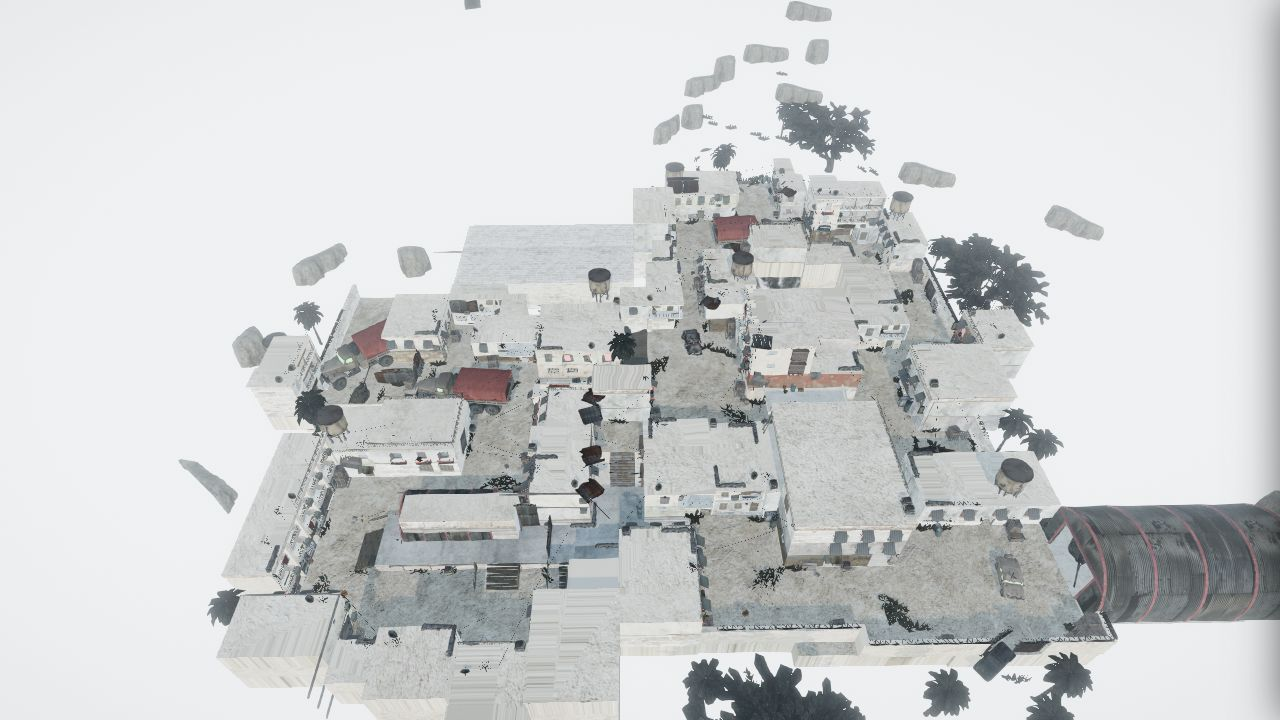
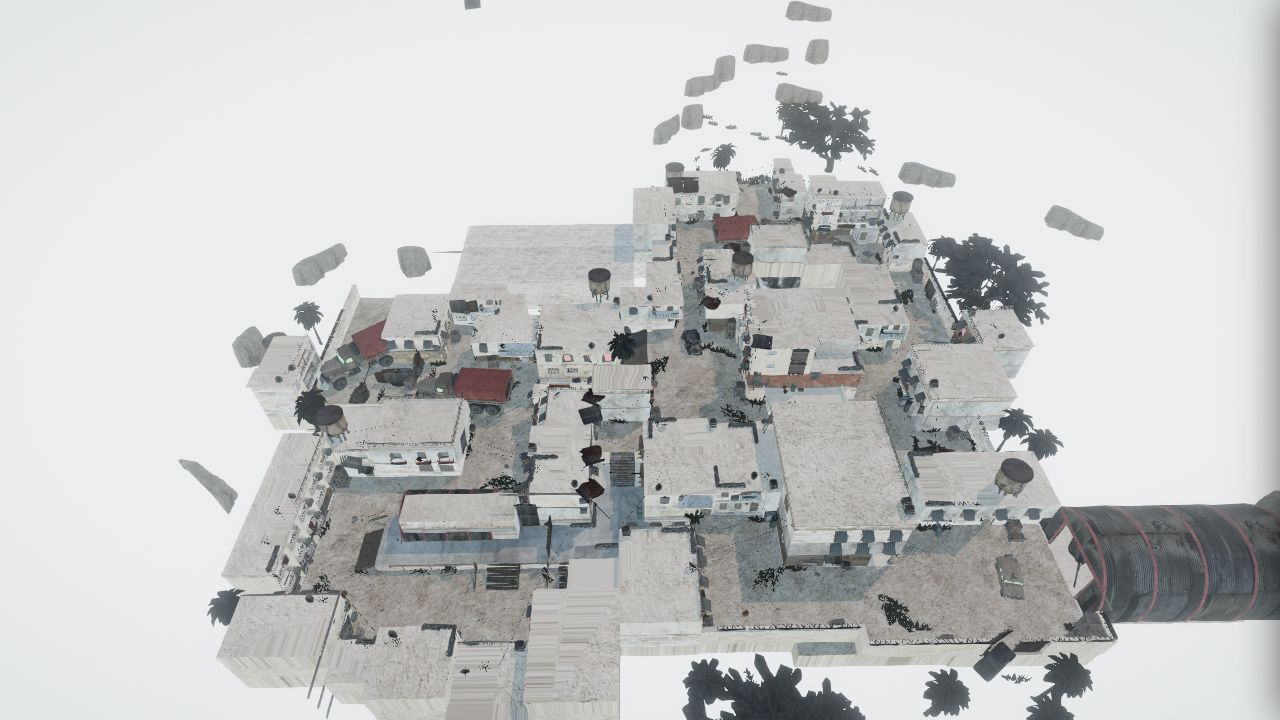
[M3] Maps: Desert Camp lit by SF2's own dominant light (55° from 322°, 251/219/199), warm haze, fill turned down; sf2_props reads Color / LinearColor and keeps what it read before an unreadable tag (v65y) (local)

diff --git a/index.html b/index.html
@@ -17017,7 +17017,15 @@ MAPS.push(sf2TriMap({
   killY: -20,
   shot: { pos: [10, 60, -70], target: [10, 0, -12] },
   thumb: { pos: [10, 70, -80], target: [10, 0, -12], fov: 55 },
-  objectives: { dom: [[-4, 0, 12], [3, 0, -7], [9, 0, -26]], relic: [3, 0, -7], domRadius: 5 }
+  objectives: { dom: [[-4, 0, 12], [3, 0, -7], [9, 0, -26]], relic: [3, 0, -7], domRadius: 5 },
+  // v65y SF2's own light: DominantDirectionalLight_0 (Pitch −10016, Yaw −1120992 → 55° up from 322°; LightColor 251/219/199), the
+  // fill turned down and warmed (the old blue-grey sky fill washed the sand-white walls out and hid every shadow), a warm haze
+  background: 13482908,
+  envIntensity: 0.25,
+  exposure: 0.85,
+  hemi: [15128252, 6968384, 0.5],
+  sun: { pos: [-32, 57, 25], color: 16505799, intensity: 1.4, auto: false },
+  fog: { color: 13482908, near: 90, far: 420 }
 }));
 
 // src/08_nav_input.js

diff --git a/src/07x_sf2maps.js b/src/07x_sf2maps.js
@@ -113,4 +113,8 @@ MAPS.push(sf2TriMap({
   bounds: { minX: -53, maxX: 59, minZ: -59, maxZ: 35 }, indoor: false, killY: -20,
   shot: { pos: [10, 60, -70], target: [10, 0, -12] }, thumb: { pos: [10, 70, -80], target: [10, 0, -12], fov: 55 },
   objectives: { dom: [[-4, 0, 12], [3, 0, -7], [9, 0, -26]], relic: [3, 0, -7], domRadius: 5 },
+  // v65y SF2's own light: DominantDirectionalLight_0 (Pitch −10016, Yaw −1120992 → 55° up from 322°; LightColor 251/219/199), the
+  // fill turned down and warmed (the old blue-grey sky fill washed the sand-white walls out and hid every shadow), a warm haze
+  background: 0xcdbb9c, envIntensity: 0.25, exposure: 0.85, hemi: [0xe6d6bc, 0x6a5440, 0.5],
+  sun: { pos: [-32, 57, 25], color: 0xfbdbc7, intensity: 1.4, auto: false }, fog: { color: 0xcdbb9c, near: 90, far: 420 },
 }));

diff --git a/tools/sf2_props.py b/tools/sf2_props.py
@@ -67,6 +67,7 @@ class Pkg:
     def _tags(self, end):
         out = []
         while self.o < end:
+            if not self._tagAt(self.o): break  # v65y stop at the first unreadable tag (keep what was read)
             nm = self.name()
             if nm == 'None': break
             typ = self.name(); size = self.i32(); idx = self.i32(); extra = None
@@ -91,6 +92,8 @@ class Pkg:
             if extra in ('Vector', 'Rotator') and size == 12:
                 return struct.unpack_from('<fff' if extra == 'Vector' else '<iii', b, o)
             if extra == 'Vector2D' and size == 8: return struct.unpack_from('<ff', b, o)
+            if extra == 'Color' and size == 4: bb, gg, rr, aa = b[o:o + 4]; return dict(R=rr, G=gg, B=bb, A=aa)  # v65y stored BGRA
+            if extra == 'LinearColor' and size == 16: return dict(zip('RGBA', (round(x, 4) for x in struct.unpack_from('<4f', b, o))))
             try:
                 sub = self._tags(o + size); return {f'{n}[{i}]' if i else n: v for n, i, t, v in sub}
             except Exception: return b[o:o + size].hex()

diff --git a/docs/CHANGELOG.md b/docs/CHANGELOG.md
@@ -1729,3 +1729,7 @@
   - 導航圖：A 隊到 B 隊找得到路。
   - `check.mjs` CHECK_OK。
 - 隱藏中的沙漠之都、惡魔島要重建才會套用這個修正（沒列在選單上，先不動）。
+### （本機，2026-10-29）：SF2 沙漠營地光照第 1 段（v65y）
+- 照 SF2 的 DominantDirectionalLight（俯角 55°、方位 322°、顏色 251/219/199）設太陽；原本偏藍灰的環境補光調暗調暖，霧與背景改暖米色。只改沙漠營地。
+- `tools/sf2_props.py`：讀得懂 Color／LinearColor 結構；遇到讀不懂的屬性就停在那裡，保留已讀到的部分（太陽元件的屬性在約 13 萬位元組的陰影資料之後）。
+- 牆面仍偏白：原始貼圖本來就是淺色灰泥，又缺 SF2 預先烘好的光照貼圖，所以陰暗面不夠暗（第 2 段）。

diff --git a/docs/loop/SF2_ALL.md b/docs/loop/SF2_ALL.md
@@ -227,7 +227,7 @@
 - ⬜ Factory（18.4 MB）
 - ⬜ Guantanamo（18.7 MB）
 - ⬜ Oldtrain（18.7 MB）
-- 🔄 DesertCamp（19.6 MB）：v65x 形狀修好；光照交接見 `docs/loop/SF2_DESERTCAMP_LIGHT.md`
+- 🔄 DesertCamp（19.6 MB）：v65x 形狀修好；v65y 光照第 1 段（太陽／霧）；光照交接見 `docs/loop/SF2_DESERTCAMP_LIGHT.md`
 - ⬜ Rocket（20.0 MB）
 - ⬜ colombiana（20.5 MB）
 - ⬜ Shanghai（20.7 MB）
